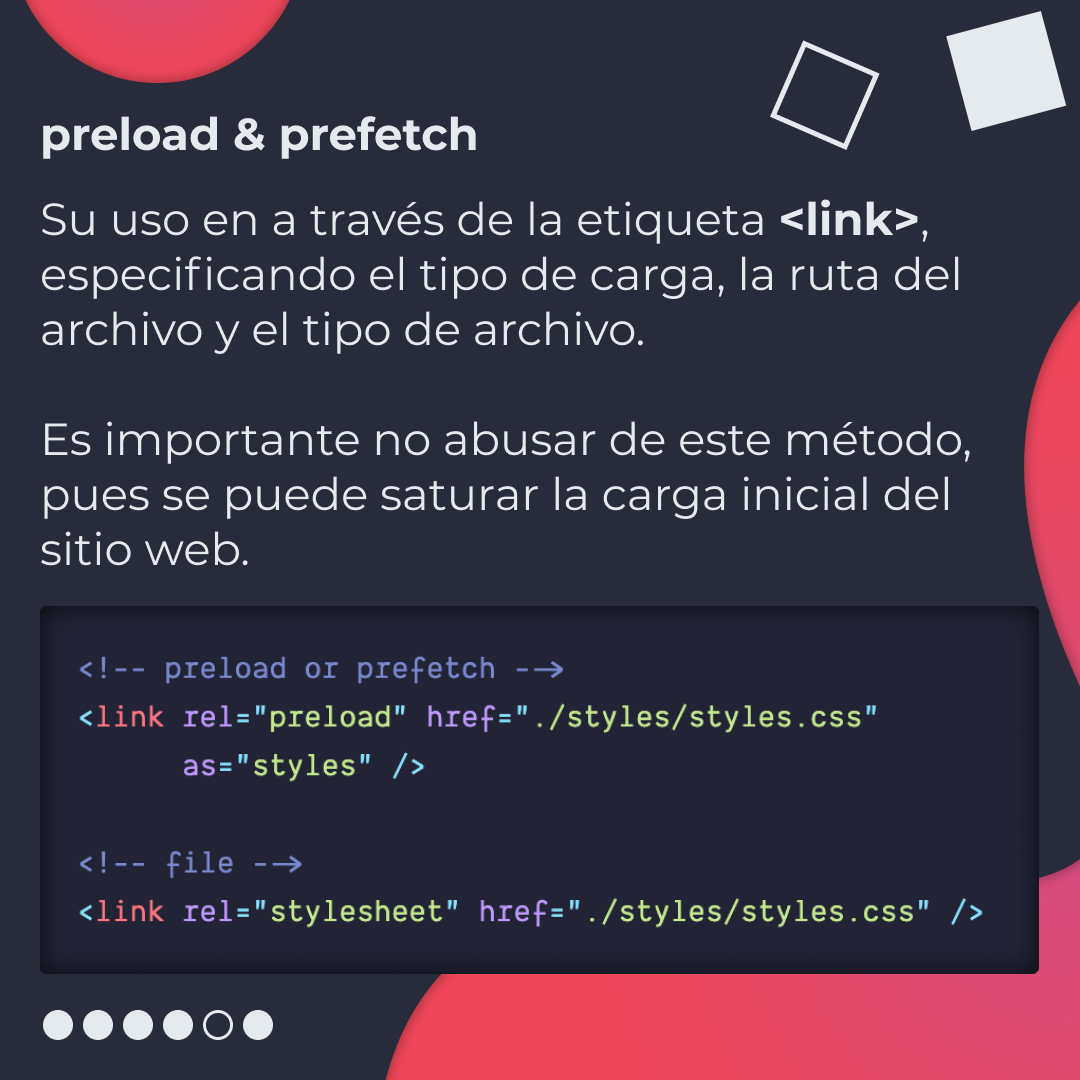
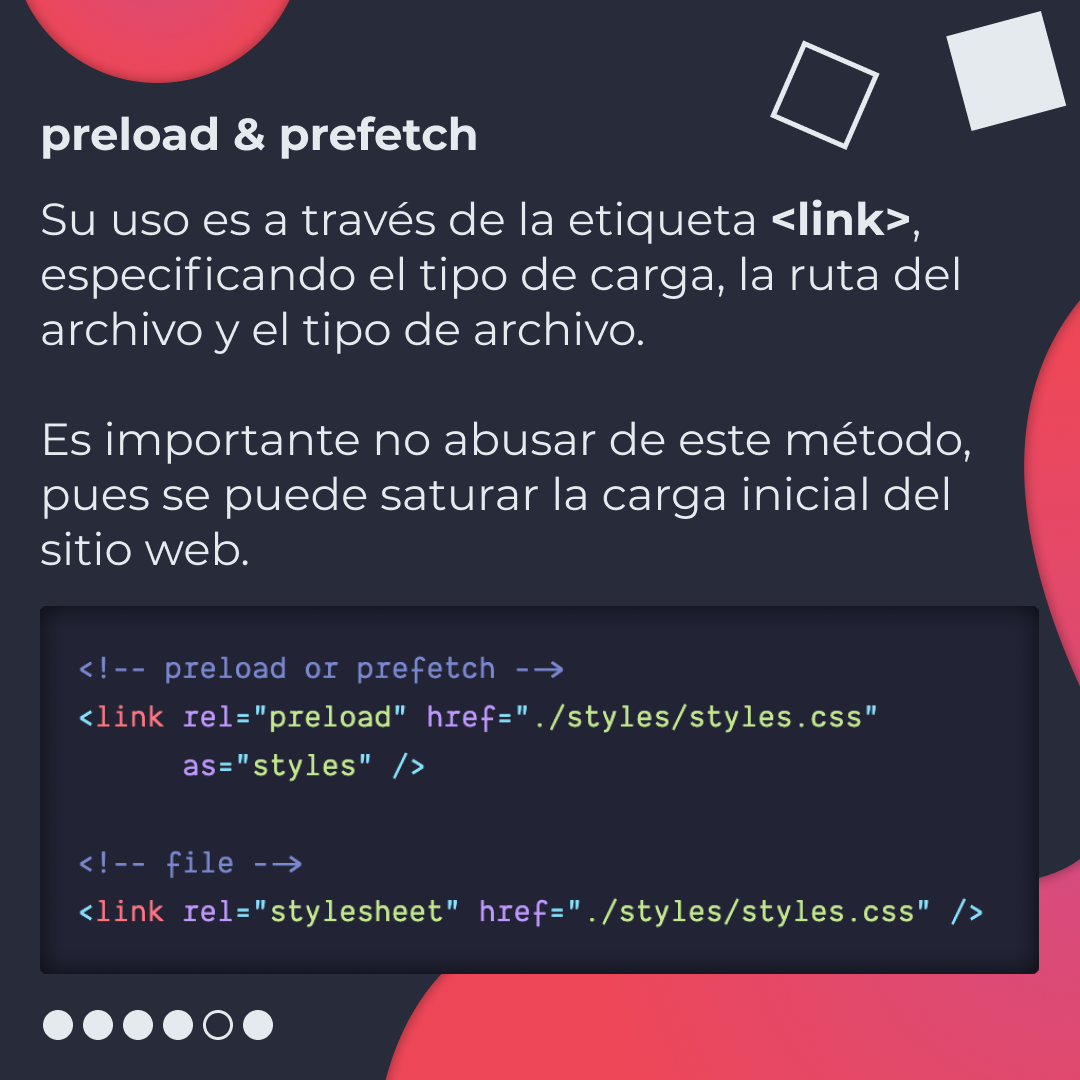
🐛 Fixing bugs and typos

Changed region(s): [[0.2139, 0.1833, 0.8556, 0.2444]]

diff --git a/BitSnack/performance/performance.md b/BitSnack/performance/performance.md
@@ -1,8 +1,14 @@
 # 4 Técnicas para mejorar el performance
 
-De acuerdo con un estudio de Google, el 40% de las personas abandona un sitio web que tarda más de 3 segundos en cargar. No solo eso, en 2006 intentó hacer la búsqueda más lenta y descubrieron que los usuarios realizaban un 25% menos de solicitudes. ¿No es suficiente?
+De acuerdo con un estudio de Google, el 40% de las personas abandona un sitio
+web que tarda más de 3 segundos en cargar. No solo eso, en 2006 intentó hacer la
+búsqueda más lenta y descubrieron que los usuarios realizaban un 25% menos de
+solicitudes. ¿No es suficiente?
 
-En 2016, AliExpress aceleró un tercio su sitio y recibió un 10.5% más de pedidos. Mejorar el performance de un sitio web trae consigo mejorar la experiencia del usuario al igual que muchas mejoras más, como ventas, un mejor posicionamiento, retención, etc.
+En 2016, AliExpress aceleró un tercio su sitio y recibió un 10.5% más de
+pedidos. Mejorar el performance de un sitio web trae consigo mejorar la
+experiencia del usuario al igual que muchas mejoras más, como ventas, un mejor
+posicionamiento, retención, etc.
 
 Por ello, hoy te enseño 4 técnicas para mejorar el performance de un sitio web.
 
@@ -24,7 +30,9 @@ Por ello, hoy te enseño 4 técnicas para mejorar el performance de un sitio web
 
 ![performance-09](./performance-09.png)
 
-> Código utilizado en los ejemplos: [preload-prefetch.html](/BitSnack/performance/preload-prefetch.html) y [code-splitting.js](/BitSnack/performance/code-splitting.js)
+> Código utilizado en los ejemplos:
+> [preload-prefetch.html](/BitSnack/performance/preload-prefetch.html) y
+> [code-splitting.js](/BitSnack/performance/code-splitting.js)
 
 ## 🤓 Aprende algo nuevo hoy
 
@@ -33,13 +41,13 @@ Por ello, hoy te enseño 4 técnicas para mejorar el performance de un sitio web
 Instagram: [@fili.santillan](https://www.instagram.com/fili.santillan/)  
 Twitter: [@FiliSantillan](https://twitter.com/FiliSantillan)  
 Facebook: [Fili Santillán](https://www.facebook.com/FiliSantillan96/)  
-Sitio web: http://filisantillan.com  
+Sitio web: http://filisantillan.com
 
 ## 📚 Recursos
 
-- [Mejorando la carga de un sitio web: Imágenes vs. velocidad](https://filisantillan.com/blog/mejorando-la-carga-de-un-sitio-web-imagenes-vs-velocidad/)
-- [Dynamic import](https://filisantillan.com/bits/dynamic-import/)
-- [Web Performance 101](https://3perf.com/talks/web-perf-101/#perf-importance-part-1)
-- [Preload, Prefetch And Priorities in Chrome](https://medium.com/reloading/preload-prefetch-and-priorities-in-chrome-776165961bbf)
-- [All you need to know about JavaScript code splitting](https://www.creativebloq.com/how-to/all-you-need-to-know-about-javascript-code-splitting)
-- [Brotli vs Gzip Compression. How we improved our latency by 37%](https://medium.com/oyotech/how-brotli-compression-gave-us-37-latency-improvement-14d41e50fee4#:~:text=Gzip%20vs%20Brotli%3A,keys%20instead%20of%20full%20keywords.&text=Javascript%20files%20compressed%20with%20Brotli,are%2017%25%20smaller%20than%20gzip.)
+-   [Mejorando la carga de un sitio web: Imágenes vs. velocidad](https://filisantillan.com/blog/mejorando-la-carga-de-un-sitio-web-imagenes-vs-velocidad/)
+-   [Dynamic import](https://filisantillan.com/bits/dynamic-import/)
+-   [Web Performance 101](https://3perf.com/talks/web-perf-101/#perf-importance-part-1)
+-   [Preload, Prefetch And Priorities in Chrome](https://medium.com/reloading/preload-prefetch-and-priorities-in-chrome-776165961bbf)
+-   [All you need to know about JavaScript code splitting](https://www.creativebloq.com/how-to/all-you-need-to-know-about-javascript-code-splitting)
+-   [Brotli vs Gzip Compression. How we improved our latency by 37%](https://medium.com/oyotech/how-brotli-compression-gave-us-37-latency-improvement-14d41e50fee4#:~:text=Gzip%20vs%20Brotli%3A,keys%20instead%20of%20full%20keywords.&text=Javascript%20files%20compressed%20with%20Brotli,are%2017%25%20smaller%20than%20gzip.)
